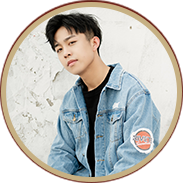
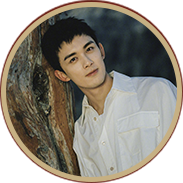
init

diff --git a/index.html b/index.html
@@ -6,7 +6,7 @@
   <script>
   </script>
   <!-- <script data-ad-client="ca-pub-4128836556935589" async src="https://pagead2.googlesyndication.com/pagead/js/adsbygoogle.js"></script> -->
-  <title>合成一个张九龄</title>
+  <title>合成一个吴磊</title>
 
   <!--http://www.html5rocks.com/en/mobile/mobifying/-->
   <meta name="viewport"
@@ -64,14 +64,14 @@
         }
     </script> -->
 
-  <link rel="stylesheet" type="text/css" href="https://cdn.jsdelivr.net/gh/Slackboi/zjl/src/style-mobile.css" />
+  <link rel="stylesheet" type="text/css" href="https://cdn.jsdelivr.net/gh/Slackboi/wl/src/style-mobile.css" />
 
 </head>
 <!-- <script async src="https://www.googletagmanager.com/gtag/js?id=G-931TPCC4WG"></script> -->
 
 
 <body style="margin: 0; background: #ddd;" align="center">
-  <div style="align:center;display: none"><img src="https://cdn.jsdelivr.net/gh/Slackboi/zjl/res/share.jpg" width="10%" /></div>
+  <div style="align:center;display: none"><img src="https://cdn.jsdelivr.net/gh/Slackboi/wl/res/share.jpg" width="10%" /></div>
 
   <div id="canvasDiv" style="width:100%;height:100%;">
     <canvas id="GameCanvas" oncontextmenu="event.preventDefault()" tabindex="0"></canvas>
@@ -87,8 +87,8 @@
 
 
 
-  <!-- <script type="text/javascript" src="https://cdn.jsdelivr.net/gh/Slackboi/zjl/src/ima3.js"></script> -->
-  <script type="text/javascript" src="https://cdn.jsdelivr.net/gh/Slackboi/zjl/src/ads.js"></script>
+  <!-- <script type="text/javascript" src="https://cdn.jsdelivr.net/gh/Slackboi/wl/src/ima3.js"></script> -->
+  <script type="text/javascript" src="https://cdn.jsdelivr.net/gh/Slackboi/wl/src/ads.js"></script>
 
   <div id="adContainer" style="display:none;position: absolute;top:0px;left: 0px;width:100%;height:100%;z-index:999;">
   </div>
@@ -104,7 +104,7 @@
   </div>
 
   <div id="loadingImg" style="top:45%;width: 100%;position:absolute; ">
-    <img src="https://cdn.jsdelivr.net/gh/Slackboi/zjl/res/loading.gif" width="7%" height="7%" />
+    <img src="https://cdn.jsdelivr.net/gh/Slackboi/wl/res/loading.gif" width="7%" height="7%" />
   </div>
 
   <!-- 判断浏览器是否屏蔽广告 -->
@@ -115,7 +115,7 @@
   <!--<div align="center" style="font-size: 10px;color: dimgrey">advertisement</div>-->
 
 
-  <script src="https://cdn.jsdelivr.net/gh/Slackboi/zjl/src/settings.js" charset="utf-8"></script>
+  <script src="https://cdn.jsdelivr.net/gh/Slackboi/wl/src/settings.js" charset="utf-8"></script>
 
   <script type="text/javascript">
     window.difficulty = [0, 5];
@@ -173,7 +173,7 @@
       , shadeClose: true //开启遮罩关闭
       , moveType: 1 //拖拽模式，0或者1
       , content: '<div style="padding: 45px; line-height: 25px; background-color: white; color: #000; font-weight: 200;">'+
-      '<h3>合成一个张九龄</h3><span>游戏有需要改进的地方或有定制需求<br> <strong><a style="color:#06f" href="https://weibo.com/u/5974324312">请联系我</a></strong><br /><br /><br /><br><spanstyle="font-size:12px;line-height: 15px;position:absolute;bottom:10px;left:25%">本作品仅为学习/娱乐<br />原版游戏:<a href="http://www.wesane.com/game/654">合成大西瓜</a>在此<br>如果本作品侵犯了您的权益<br />请联系我</span></div>',
+      '<h3>合成一个吴磊</h3><span>游戏有需要改进的地方或有定制需求<br> <strong><a style="color:#06f" href="https://weibo.com/u/5974324312">请联系我</a></strong><br /><br /><br /><br><spanstyle="font-size:12px;line-height: 15px;position:absolute;bottom:10px;left:25%">本作品仅为学习/娱乐<br />原版游戏:<a href="http://www.wesane.com/game/654">合成大西瓜</a>在此<br>如果本作品侵犯了您的权益<br />请联系我</span></div>',
       success: function (layero) {
         var btn = layero.find('.layui-layer-btn');
         btn.find('.layui-layer-btn0').click(function () {
@@ -217,7 +217,7 @@
 
       //        console.log("window.navigator.language",window.navigator.language);
 
-        document.title = "合成一个张九龄";
+        document.title = "合成一个吴磊";
 
     }
 
@@ -310,9 +310,9 @@
 <!-- <script async src="//pagead2.googlesyndication.com/pagead/js/adsbygoogle.js"></script> -->
 
 
-  <script src="https://cdn.jsdelivr.net/gh/Slackboi/zjl/src/settings.js" charset="utf-8"></script>
+  <script src="https://cdn.jsdelivr.net/gh/Slackboi/wl/src/settings.js" charset="utf-8"></script>
 
-  <script src="https://cdn.jsdelivr.net/gh/Slackboi/zjl/src/main.js" charset="utf-8"></script>
+  <script src="https://cdn.jsdelivr.net/gh/Slackboi/wl/src/main.js" charset="utf-8"></script>
 
 
   <!-- <script async src="//pagead2.googlesyndication.com/pagead/js/adsbygoogle.js"></script> -->
@@ -364,7 +364,7 @@
 
         var cocos2d = document.createElement('script');
         cocos2d.async = true;
-        cocos2d.src = 'https://cdn.jsdelivr.net/gh/Slackboi/zjl/cocos2d-js-min.js';
+        cocos2d.src = 'https://cdn.jsdelivr.net/gh/Slackboi/wl/cocos2d-js-min.js';
 
         var engineLoaded = function () {
           document.body.removeChild(cocos2d);

diff --git a/src/main.js b/src/main.js
@@ -196,10 +196,10 @@ window.boot = function () {
   if (false) {
     BK.Script.loadlib();
   } else {
-    var bundledScript = 'https://cdn.jsdelivr.net/gh/Slackboi/zjl/src/project.min.js?ran=' + Math.random().toString("32").substring(2);
+    var bundledScript = 'https://cdn.jsdelivr.net/gh/Slackboi/wl/src/project.min.js?ran=' + Math.random().toString("32").substring(2);
     if (jsList) {
       jsList = jsList.map(function (x) {
-        return 'https://cdn.jsdelivr.net/gh/Slackboi/zjl/src/' + x;
+        return 'https://cdn.jsdelivr.net/gh/Slackboi/wl/src/' + x;
       });
       jsList.push(bundledScript);
     } else {
@@ -220,8 +220,8 @@ window.boot = function () {
 
   // 初始化资源
   cc.AssetLibrary.init({
-    libraryPath: 'https://cdn.jsdelivr.net/gh/Slackboi/zjl/res/import',
-    rawAssetsBase: 'https://cdn.jsdelivr.net/gh/Slackboi/zjl/res/raw-',
+    libraryPath: 'https://cdn.jsdelivr.net/gh/Slackboi/wl/res/import',
+    rawAssetsBase: 'https://cdn.jsdelivr.net/gh/Slackboi/wl/res/raw-',
     rawAssets: settings.rawAssets,
     packedAssets: settings.packedAssets,
     md5AssetsMap: settings.md5AssetsMap,
@@ -233,7 +233,7 @@ window.boot = function () {
 
 // main.js is qqplay and jsb platform entry file, so we must leave platform init code here
 if (false) {
-  BK.Script.loadlib('GameRes:https://cdn.jsdelivr.net/gh/Slackboi/zjl/src/settings.js');
+  BK.Script.loadlib('GameRes:https://cdn.jsdelivr.net/gh/Slackboi/wl/src/settings.js');
   BK.Script.loadlib();
   BK.Script.loadlib('GameRes://libs/qqplay-downloader.js');
 
@@ -258,15 +258,15 @@ if (false) {
   var isRuntime = (typeof loadRuntime === 'function');
   if (isRuntime) {
 <<<<<<< HEAD
-    require('https://cdn.jsdelivr.net/gh/Slackboi/zjl/src/settings.js');
+    require('https://cdn.jsdelivr.net/gh/Slackboi/wl/src/settings.js');
 =======
-    require('https://cdn.jsdelivr.net/gh/Slackboi/zjl/src/settings');
+    require('https://cdn.jsdelivr.net/gh/Slackboi/wl/src/settings');
 >>>>>>> 82d0ff7218bd8f84588749e9dc7baf2cd5b52c3d
-    require('https://cdn.jsdelivr.net/gh/Slackboi/zjl/src/cocos2d-runtime.min.js');
+    require('https://cdn.jsdelivr.net/gh/Slackboi/wl/src/cocos2d-runtime.min.js');
     require('jsb-adapter/engine/index.js');
   } else {
-    require('https://cdn.jsdelivr.net/gh/Slackboi/zjl/src/settings');
-    require('https://cdn.jsdelivr.net/gh/Slackboi/zjl/src/cocos2d-jsb.js');
+    require('https://cdn.jsdelivr.net/gh/Slackboi/wl/src/settings');
+    require('https://cdn.jsdelivr.net/gh/Slackboi/wl/src/cocos2d-jsb.js');
     require('jsb-adapter/jsb-engine.js');
   }
 
